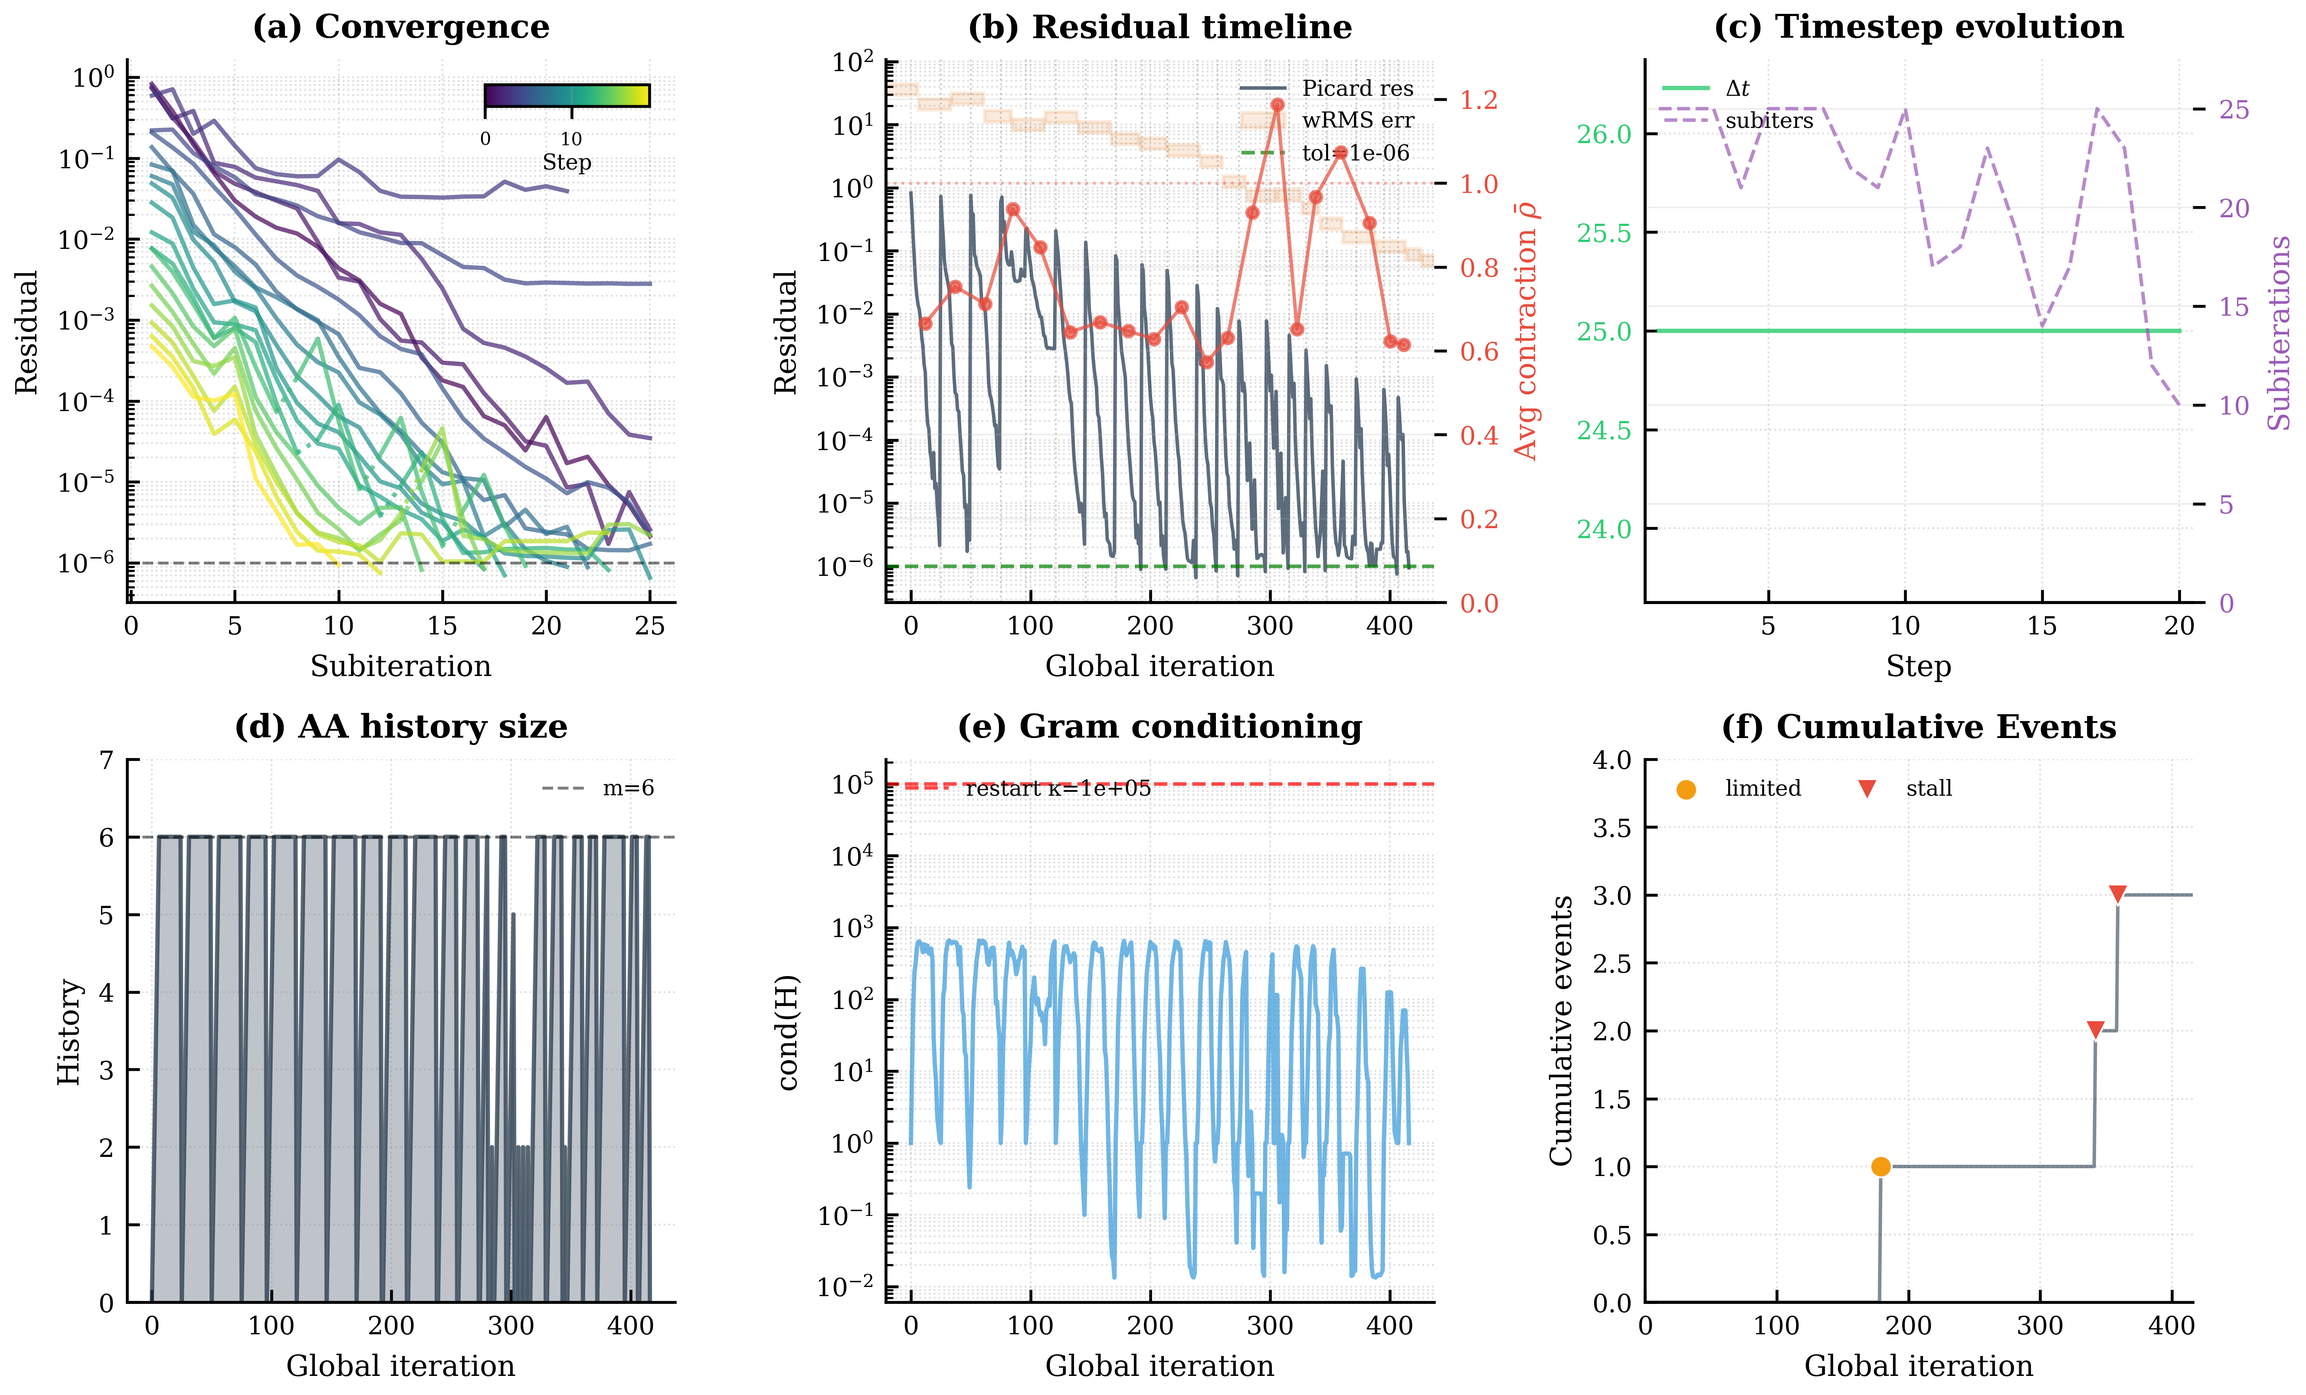
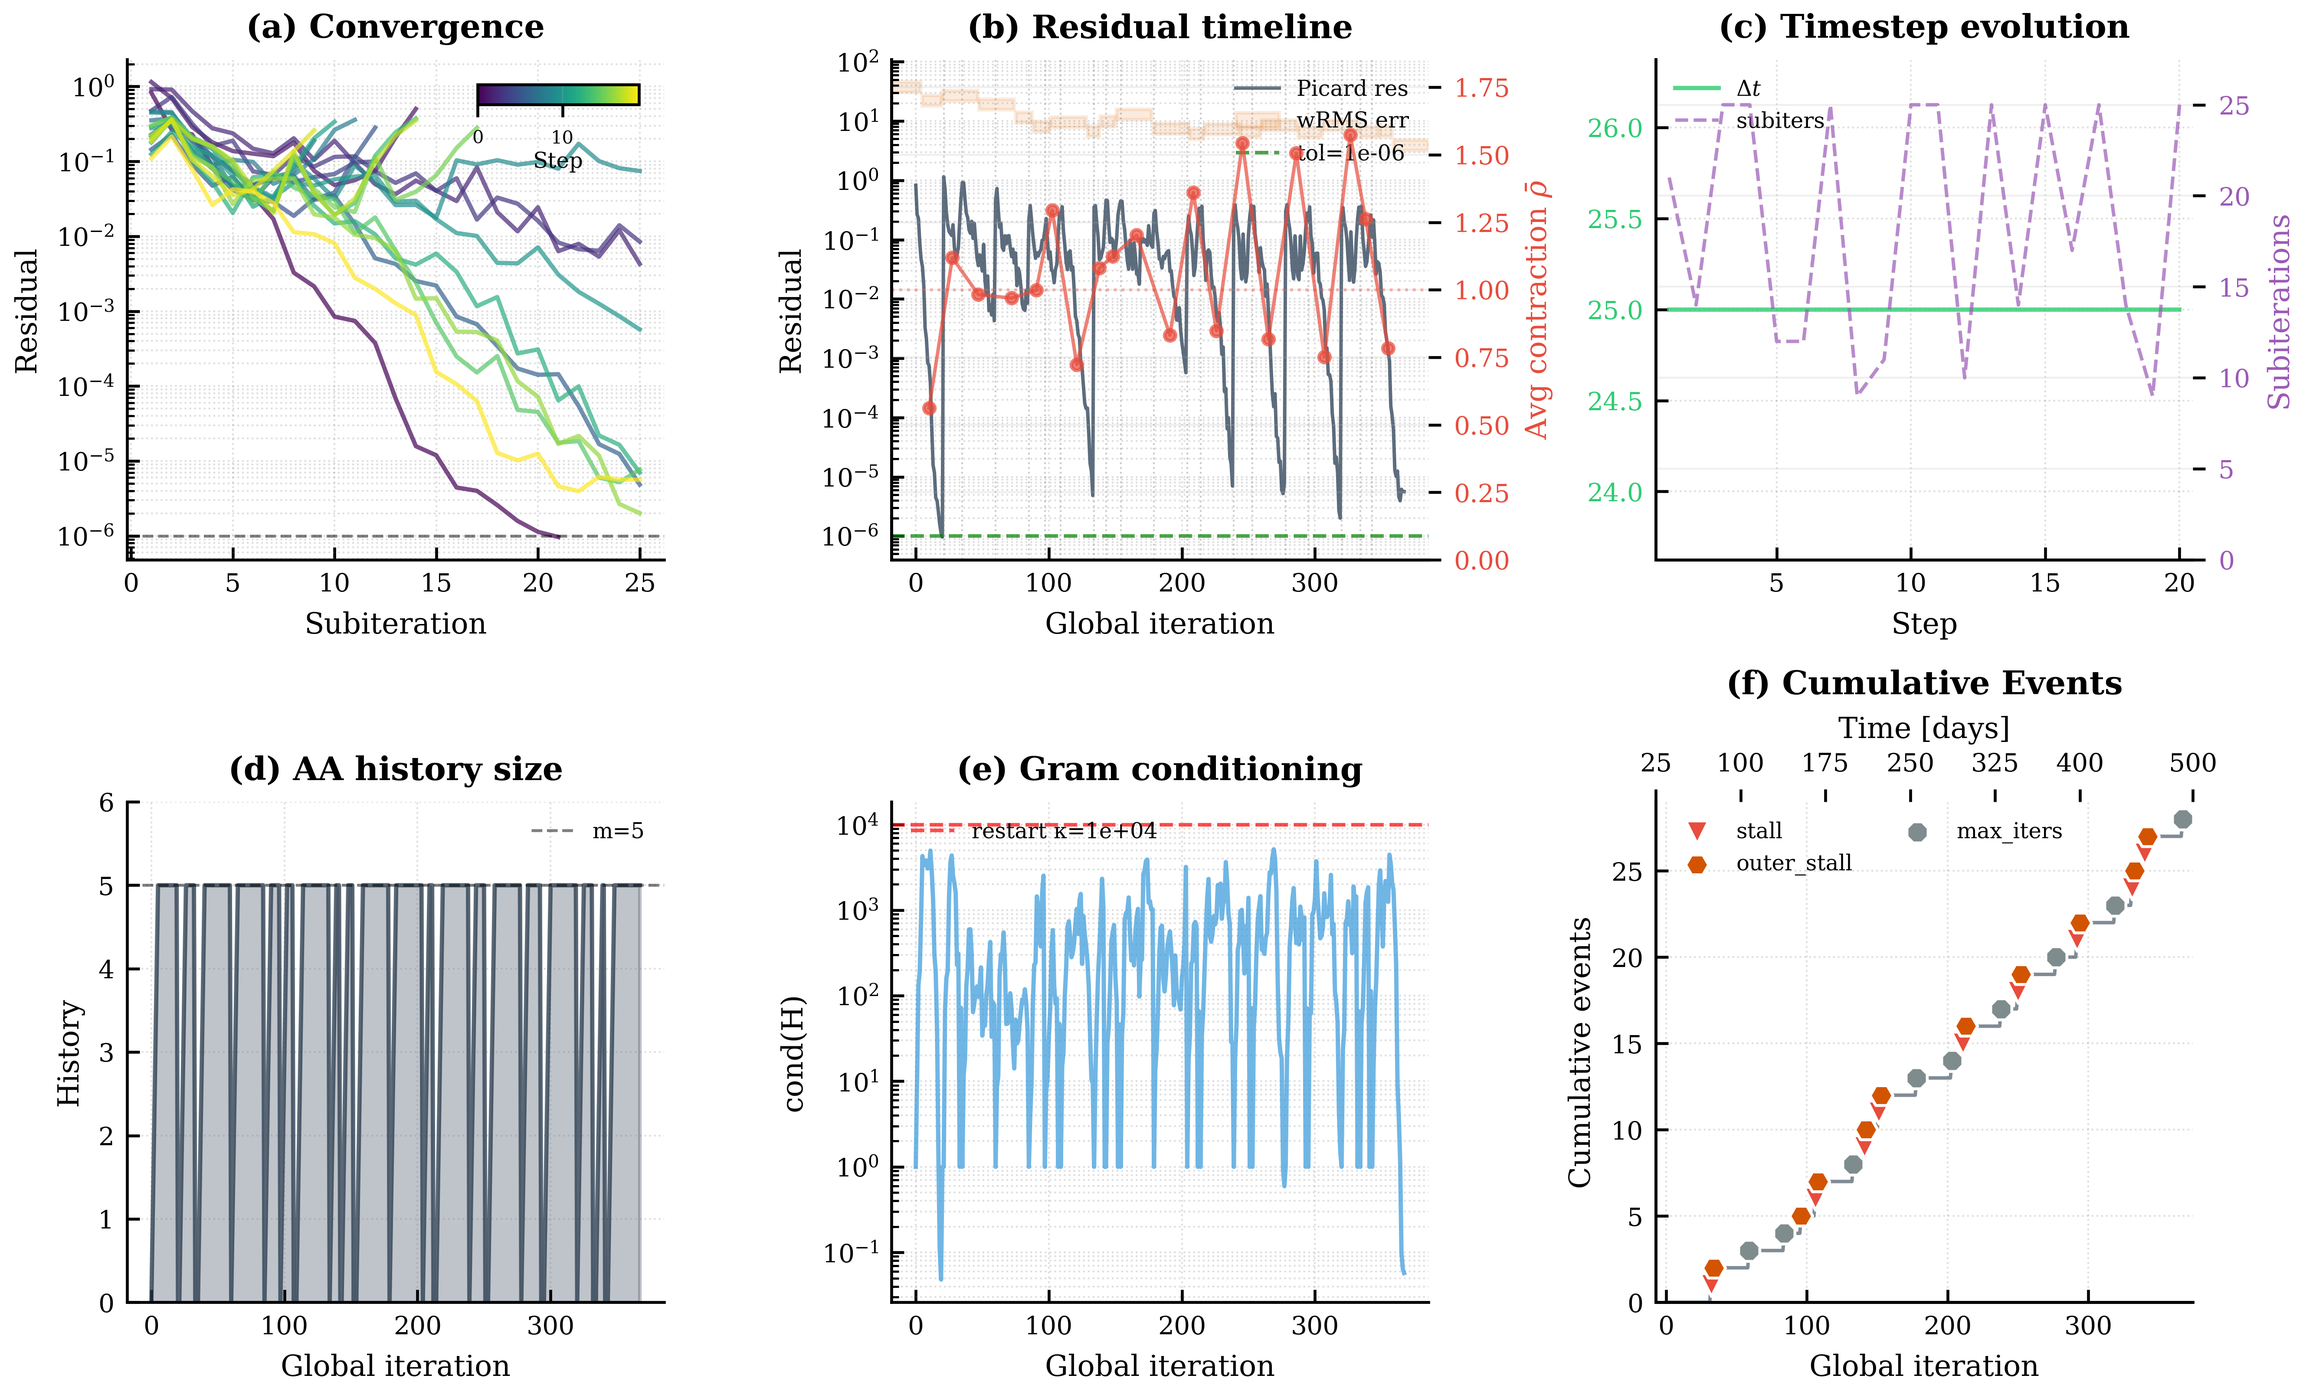
Refactor Anderson diagnostic plot and related files for improved clarity and functionality, including updates to color coding, parameter handling, and event plotting logic.

diff --git a/analysis/anderson_diagnostic_plot.py b/analysis/anderson_diagnostic_plot.py
@@ -46,14 +46,17 @@ from analysis.plot_utils import (
 # Configuration
 # =============================================================================
 
-DEFAULT_RUN_DIR = Path(".results_box/")
+DEFAULT_RUN_DIR = Path(".stiff_results_box/")
 OUTPUT_FILE = Path("manuscript/images/anderson_diagnostic.png")
 
 # Colors for events
 COLOR_STALL = "#e74c3c"   # Red - stall restart
 COLOR_COND = "#3498db"    # Blue - condition restart / conditioning line
 COLOR_LIMITED = "#f39c12" # Orange - step limiting
+COLOR_PICARD = "#8e44ad"  # Purple - Picard mode (AA off)
 COLOR_RESTART = "#9b59b6" # Purple - general restart (for cumulative plot)
+COLOR_OUTER_STALL = "#d35400"  # Dark orange - outer coupling stall (no_progress)
+COLOR_MAX_SUBITERS = "#7f8c8d" # Gray - max subiters reached
 
 # Color for rejected steps
 COLOR_REJECTED = "#c0392b"  # Dark red
@@ -189,8 +192,10 @@ def plot_convergence(ax: plt.Axes, subiters: pd.DataFrame, config: dict, steps_d
     cmap = plt.cm.viridis
     norm = Normalize(vmin=0, vmax=max(unique_keys - 1, 1))
     
-    # Check if aa_off column exists for Picard/Anderson distinction
-    has_aa_off = "aa_off" in subiters.columns
+    # Check for Picard/Anderson distinction - ONLY use picard_mode (hysteresis), NOT aa_off (restart)
+    # aa_off indicates restart used Picard, not hysteresis mode switch
+    picard_col = "picard_mode" if "picard_mode" in subiters.columns else None
+    has_picard_col = picard_col is not None
 
     for i, (step, attempt) in enumerate(step_attempts):
         if "attempt" in subiters.columns:
@@ -205,16 +210,16 @@ def plot_convergence(ax: plt.Axes, subiters: pd.DataFrame, config: dict, steps_d
         iters = step_data["iter"].values
         res = step_data["proj_res"].values
         
-        if has_aa_off:
+        if has_picard_col:
             # Plot segments with different line styles for Picard vs Anderson
-            aa_off = step_data["aa_off"].astype(bool).values
+            picard_vals = step_data[picard_col].astype(bool).values
             
             # Find contiguous segments of same mode
             j = 0
             while j < len(iters):
-                is_picard = aa_off[j]
+                is_picard = picard_vals[j]
                 seg_start = j
-                while j < len(iters) and aa_off[j] == is_picard:
+                while j < len(iters) and picard_vals[j] == is_picard:
                     j += 1
                 seg_end = j
                 
@@ -230,7 +235,7 @@ def plot_convergence(ax: plt.Axes, subiters: pd.DataFrame, config: dict, steps_d
                     alpha=0.7,
                 )
         else:
-            # No aa_off info, plot as solid line
+            # No picard info, plot as solid line
             ax.semilogy(
                 iters,
                 res,
@@ -363,6 +368,7 @@ def plot_events_unified(ax: plt.Axes, subiters: pd.DataFrame, global_idx: np.nda
     """Unified plot for all events: AA restarts (stall/cond), step limiting, and rejected steps.
     
     Shows cumulative event count with markers for different event types.
+    Includes secondary x-axis showing simulation time.
     """
     n_total = len(subiters)
     
@@ -385,7 +391,62 @@ def plot_events_unified(ax: plt.Axes, subiters: pd.DataFrame, global_idx: np.nda
         for idx in np.where(limited_mask)[0]:
             events.append((idx, "limited", COLOR_LIMITED, "o"))
     
-    # 3. Rejected attempts (all reasons, from steps.csv `reject_reason`)
+    # 3. Fixed-point stop reason events (outer stall, max_subiters)
+    # Try from fp_stop_reason column first (new format)
+    if "fp_stop_reason" in subiters.columns:
+        stop_reasons = subiters["fp_stop_reason"].fillna("").astype(str).values
+        for idx, reason in enumerate(stop_reasons):
+            if reason == "no_progress":
+                events.append((idx, "outer_stall", COLOR_OUTER_STALL, "H"))  # Hexagon
+            elif reason == "max_subiters":
+                events.append((idx, "max_iters", COLOR_MAX_SUBITERS, "8"))  # Octagon
+    elif steps_df is not None and not steps_df.empty:
+        # Fallback: infer from steps.csv for old data format
+        # Mark last iteration of each step that didn't converge
+        steps_copy = steps_df.copy()
+        if "attempt" not in steps_copy.columns:
+            steps_copy["attempt"] = 1
+        
+        for _, row in steps_copy.iterrows():
+            step = int(row.get("step", 0))
+            attempt = int(row.get("attempt", 1))
+            converged = int(row.get("converged", 1))
+            num_subiters = int(row.get("num_subiters", 0))
+            max_subiters_cfg = 25  # Default, could be read from config
+            
+            if converged == 0:  # Step didn't converge
+                # Find last iteration of this step/attempt in subiters
+                if "attempt" in subiters.columns:
+                    step_mask = (subiters["step"].values == step) & (subiters["attempt"].values == attempt)
+                else:
+                    step_mask = subiters["step"].values == step
+                if step_mask.any():
+                    last_idx = np.where(step_mask)[0][-1]
+                    # Determine reason: max_subiters if reached limit
+                    if num_subiters >= max_subiters_cfg:
+                        events.append((last_idx, "max_iters", COLOR_MAX_SUBITERS, "8"))
+    
+    # 4. Picard mode switch events (hysteresis transitions from Anderson to Picard)
+    # Use picard_mode column (new format) or fall back to aa_off (old format)
+    picard_col = "picard_mode" if "picard_mode" in subiters.columns else "aa_off"
+    if picard_col in subiters.columns:
+        picard_mode = subiters[picard_col].astype(bool).values
+        # Detect transitions: picard_mode goes from False (0) to True (1)
+        for idx in range(len(picard_mode)):
+            if picard_mode[idx]:
+                # Check if this is a transition (previous was Anderson or first in step)
+                if idx == 0:
+                    events.append((idx, "picard", COLOR_PICARD, "s"))
+                else:
+                    # Check if same step
+                    same_step = subiters.iloc[idx]["step"] == subiters.iloc[idx-1]["step"]
+                    if "attempt" in subiters.columns:
+                        same_step = same_step and (subiters.iloc[idx]["attempt"] == subiters.iloc[idx-1]["attempt"])
+                    if same_step and not picard_mode[idx - 1]:
+                        # Transition from Anderson to Picard within same step
+                        events.append((idx, "picard", COLOR_PICARD, "s"))
+    
+    # 5. Rejected attempts (all reasons, from steps.csv `reject_reason`)
     if steps_df is not None and not steps_df.empty:
         steps_df = steps_df.copy()
         if "attempt" not in steps_df.columns:
@@ -435,44 +496,103 @@ def plot_events_unified(ax: plt.Axes, subiters: pd.DataFrame, global_idx: np.nda
         ax.plot(global_idx, cum_events, color="#2c3e50", linewidth=PLOT_LINEWIDTH * 0.8,
                 alpha=0.6)
     
-    # Plot markers by type
-    plotted_types = set()
+    # Group events by index to handle overlaps
+    from collections import defaultdict
+    events_by_idx = defaultdict(list)
     for idx, etype, color, marker in events:
-        label = etype if etype not in plotted_types else None
-        scatter_kwargs = {
-            "c": color,
-            "s": 35,
-            "marker": marker,
-            "zorder": 5,
-            "linewidths": 0.5,
-            "label": label,
-        }
-        if marker not in {"x", "+", "|", "_"}:
-            scatter_kwargs["edgecolors"] = "white"
-        ax.scatter([global_idx[idx]], [cum_events[idx]], **scatter_kwargs)
-        plotted_types.add(etype)
+        events_by_idx[idx].append((etype, color, marker))
+    
+    # Calculate vertical offset for overlapping markers (stack above each other)
+    # Each marker needs to be offset by roughly its size in data coordinates
+    y_max = max(len(events), 1)
+    marker_offset_y = y_max * 0.06  # ~6% of y-range per marker
+    
+    # Plot markers by type with vertical offset for overlaps
+    plotted_types = set()
+    for idx, event_list in events_by_idx.items():
+        n_events = len(event_list)
+        
+        for i, (etype, color, marker) in enumerate(event_list):
+            label = etype if etype not in plotted_types else None
+            x_pos = global_idx[idx]
+            # Stack markers vertically: first at base, others above
+            y_pos = cum_events[idx] + i * marker_offset_y
+            
+            scatter_kwargs = {
+                "c": color,
+                "s": 40,  # Marker size
+                "marker": marker,
+                "zorder": 5 + i,  # Higher zorder for stacked markers
+                "linewidths": 0.8,
+                "label": label,
+            }
+            if marker not in {"x", "+", "|", "_"}:
+                scatter_kwargs["edgecolors"] = "white"
+            ax.scatter([x_pos], [y_pos], **scatter_kwargs)
+            plotted_types.add(etype)
     
     # Count summary
     n_stall = sum(1 for e in events if e[1] == "stall")
     n_cond = sum(1 for e in events if e[1] == "cond")
     n_lim = sum(1 for e in events if e[1] == "limited")
+    n_picard = sum(1 for e in events if e[1] == "picard")
+    n_outer_stall = sum(1 for e in events if e[1] == "outer_stall")
+    n_max_iters = sum(1 for e in events if e[1] == "max_iters")
     rej_counts = {}
     for _, etype, _, _ in events:
         if etype.startswith("rej:"):
             rej_counts[etype] = rej_counts.get(etype, 0) + 1
     
-    ax.set_xlim(global_idx.min(), global_idx.max())
-    ax.set_ylim(0, max(len(events) + 1, 1))
+    # Calculate max y considering stacked markers
+    max_stack = max((len(evs) for evs in events_by_idx.values()), default=1)
+    y_top = len(events) + (max_stack - 1) * marker_offset_y + 1
+    
+    # Add padding to x-axis for markers at edges
+    x_range = global_idx.max() - global_idx.min() if len(global_idx) > 1 else 1
+    x_padding = x_range * 0.02  # 2% padding on each side
+    ax.set_xlim(global_idx.min() - x_padding, global_idx.max() + x_padding)
+    ax.set_ylim(0, y_top)
     if events:
         ax.legend(loc="upper left", fontsize=6, framealpha=0.8, ncol=2, frameon=False)
     
     setup_axis_style(ax, xlabel="Global iteration", ylabel="Cumulative events", title="", loglog=False)
+    
+    # Add secondary x-axis with simulation time
+    if "time_days" in subiters.columns:
+        ax2 = ax.twiny()
+        time_vals = subiters["time_days"].values
+        
+        # Map global_idx to time for the secondary axis
+        ax2.set_xlim(
+            time_vals[0] if len(time_vals) > 0 else 0,
+            time_vals[-1] if len(time_vals) > 0 else 1
+        )
+        ax2.set_xlabel("Time [days]", fontsize=8)
+        ax2.tick_params(axis='x', labelsize=7)
+        ax2.grid(False)  # Disable grid for secondary axis
+        
+        # Create tick positions at step boundaries for cleaner display
+        if len(time_vals) > 0:
+            # Get unique times (one per step change)
+            step_times = subiters.groupby("step")["time_days"].first().values
+            if len(step_times) > 10:
+                # Too many steps, use ~5-7 evenly spaced ticks
+                n_ticks = min(7, len(step_times))
+                tick_indices = np.linspace(0, len(step_times) - 1, n_ticks, dtype=int)
+                tick_times = step_times[tick_indices]
+            else:
+                tick_times = step_times
+            ax2.set_xticks(tick_times)
+            ax2.set_xticklabels([f"{t:.0f}" for t in tick_times])
     
     # Build title with counts
     parts = []
     if n_stall: parts.append(f"stall={n_stall}")
     if n_cond: parts.append(f"cond={n_cond}")
     if n_lim: parts.append(f"lim={n_lim}")
+    if n_picard: parts.append(f"picard={n_picard}")
+    if n_outer_stall: parts.append(f"outer_stall={n_outer_stall}")
+    if n_max_iters: parts.append(f"max_iters={n_max_iters}")
     for k in sorted(rej_counts.keys()):
         parts.append(f"{k}={rej_counts[k]}")
     ax.set_title("(f) Cumulative Events", fontweight="bold")

diff --git a/simulation/storage.py b/simulation/storage.py
@@ -97,8 +97,8 @@ class MetricsStorage:
         "step", "attempt", "iter", "time_days", "proj_res", "aa_step_res",
         "mech_iters", "fab_iters", "stim_iters", "dens_iters",
         "mech_time", "fab_time", "stim_time", "dens_time",
-        "aa_accepted", "aa_off", "restart", "restart_reason", "limited",
-        "condH", "aa_hist", "contraction", "memory_mb",
+        "aa_accepted", "aa_off", "picard_mode", "restart", "restart_reason", "limited",
+        "condH", "aa_hist", "contraction", "fp_stop_reason", "memory_mb",
     ]
 
     def __init__(self, cfg: "Config", comm: MPI.Comm) -> None:
@@ -251,13 +251,15 @@ class MetricsStorage:
                 "stim_time": iter_block_times.get("stim", 0.0),
                 "dens_time": iter_block_times.get("dens", 0.0),
                 "aa_accepted": 1 if rec.get("aa_accepted", True) else 0,
-                "aa_off": 1 if rec.get("aa_off", False) else 0,  # 1=Picard, 0=Anderson
+                "aa_off": 1 if rec.get("aa_off", False) else 0,  # 1=restart used Picard
+                "picard_mode": 1 if rec.get("picard_mode", False) else 0,  # 1=hysteresis Picard mode
                 "restart": 1 if rec.get("aa_restart") else 0,
                 "restart_reason": str(rec.get("aa_restart", "")),
                 "limited": 1 if rec.get("aa_limited") else 0,
                 "condH": rec.get("condH", 0.0),
                 "aa_hist": rec.get("aa_hist", 0),
                 "contraction": rec.get("contraction"),  # rho = r_k / r_{k-1}
+                "fp_stop_reason": str(rec.get("fp_stop_reason", "")),
                 "memory_mb": rec.get("mem_mb", 0.0),
             }
             self._subiters_writer.writerow(subiter_row)

diff --git a/run_box_model.py b/run_box_model.py
@@ -38,11 +38,11 @@ def main() -> None:
     comm = MPI.COMM_WORLD
 
     # Load parameters from JSON
-    params = load_default_params("default_params_box.json")
+    params = load_default_params("stiff_params_box.json")
     box = params["box"]
     
     # Modify params as needed
-    params["output"].results_dir = ".results_box"
+    params["output"].results_dir = ".stiff_results_box"
     params["output"].saving_interval = 1
     params["geometry"].fix_tag = BoxMeshBuilder.TAG_BOTTOM
     params["geometry"].load_tag = BoxMeshBuilder.TAG_TOP

diff --git a/simulation/fixedsolver.py b/simulation/fixedsolver.py
@@ -337,6 +337,7 @@ class FixedPointSolver:
                 "aa_restart": aa.get("restart_reason", ""),
                 "aa_limited": aa.get("limited", False),
                 "aa_off": aa.get("aa_off", False),
+                "picard_mode": not use_anderson,  # True = hysteresis switched to Picard
                 "condH": aa.get("condH", 0.0),
                 "contraction": contraction,  # ρ_k = r_k / r_{k-1}
                 "mem_mb": mem_mb,
